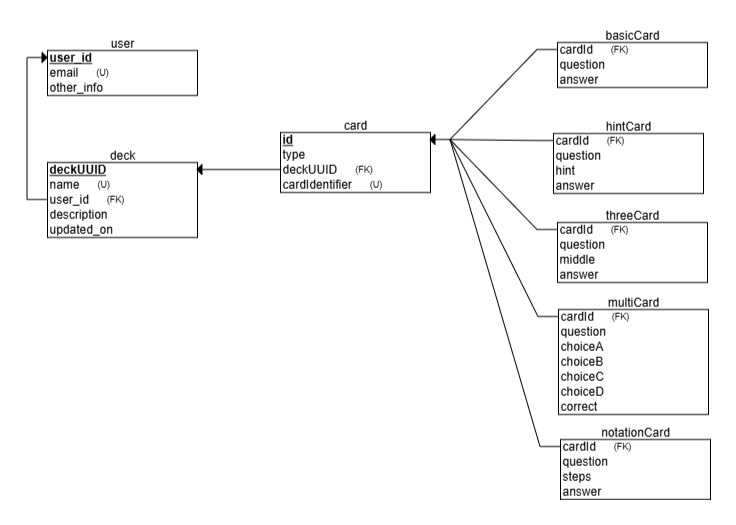
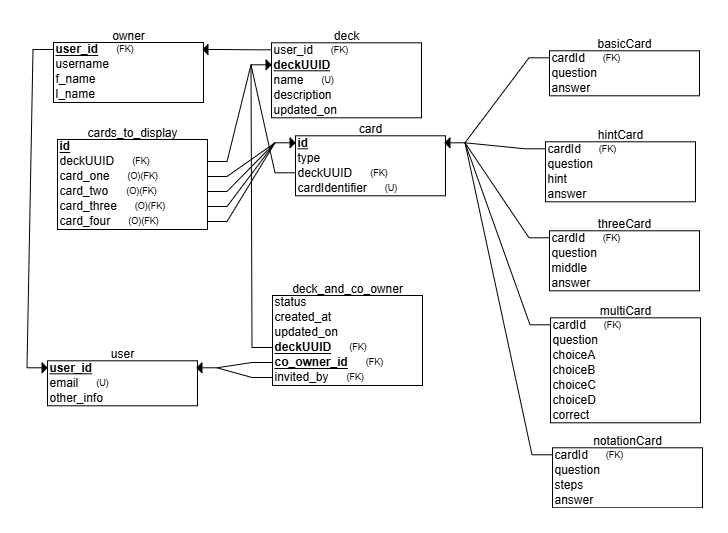
Quick push updating schema images.

diff --git a/app/src/main/java/com/belmontCrest/cardCrafter/navigation/navHosts/MainNavHost.kt b/app/src/main/java/com/belmontCrest/cardCrafter/navigation/navHosts/MainNavHost.kt
@@ -52,7 +52,7 @@ import kotlinx.coroutines.launch
 @SuppressLint("StateFlowValueCalledInComposition")
 @Composable
 fun AppNavHost(
-    navController: NavHostController,
+    mainNavController: NavHostController,
     mainViewModel: MainViewModel,
     editingCardListVM: EditingCardListViewModel,
     navViewModel: NavViewModel,
@@ -77,7 +77,7 @@ fun AppNavHost(
     val generalSettings = GeneralSettings(getUIStyle, preferences)
     val coroutineScope = rememberCoroutineScope()
     CustomNavigationDrawer(
-        navController = navController,
+        mainNavController = mainNavController,
         fields = fields,
         getUIStyle = getUIStyle,
         navViewModel = navViewModel,
@@ -85,7 +85,7 @@ fun AppNavHost(
         supabaseVM = supabaseVM
     ) {
         NavHost(
-            navController = navController,
+            navController = mainNavController,
             startDestination = DeckListDestination.route,
             route = MainNavDestination.route,
             modifier = Modifier
@@ -93,7 +93,7 @@ fun AppNavHost(
             composable(DeckListDestination.route) {
                 BackHandler {
                     // Exit the app when back is pressed on the main screen
-                    (navController.context as? Activity)?.finish()
+                    (mainNavController.context as? Activity)?.finish()
                 }
                 val context = LocalContext.current
                 mainView.DeckList(
@@ -110,11 +110,11 @@ fun AppNavHost(
                         onDeckView = true
                         navViewModel.updateStartingDeckRoute(DeckViewDestination.route)
                         navViewModel.updateRoute(DeckNavDestination.route)
-                        navController.navigate(DeckNavDestination.route)
+                        mainNavController.navigate(DeckNavDestination.route)
                     },
                     onNavigateToAddDeck = {
                         navViewModel.updateRoute(AddDeckDestination.route)
-                        navController.navigate(AddDeckDestination.route)
+                        mainNavController.navigate(AddDeckDestination.route)
                     },
                     onNavigateToSBDeckList = {
                         coroutineScope.launch {
@@ -129,7 +129,7 @@ fun AppNavHost(
                         }
                         navViewModel.updateStartingSBRoute(SupabaseDestination.route)
                         navViewModel.updateRoute(SBNavDestination.route)
-                        navController.navigate(SBNavDestination.route)
+                        mainNavController.navigate(SBNavDestination.route)
                     },
                     goToDueCards = { id ->
                         coroutineScope.launch {
@@ -142,7 +142,7 @@ fun AppNavHost(
                         cardDeckVM.updateWhichDeck(id)
                         navViewModel.updateStartingDeckRoute(ViewDueCardsDestination.route)
                         navViewModel.updateRoute(ViewDueCardsDestination.route)
-                        navController.navigate(DeckNavDestination.route)
+                        mainNavController.navigate(DeckNavDestination.route)
                     }
                 )
             }
@@ -150,7 +150,7 @@ fun AppNavHost(
             composable(SBNavDestination.route) {
                 SupabaseNav(
                     fields, mainViewModel, supabaseVM, getUIStyle,
-                    preferences, navController, navViewModel
+                    preferences, mainNavController, navViewModel
                 )
             }
             composable(
@@ -160,7 +160,7 @@ fun AppNavHost(
                 BackHandler {
                     fields.mainClicked.value = false
                     navViewModel.updateRoute(DeckListDestination.route)
-                    navController.popBackStack(
+                    mainNavController.popBackStack(
                         DeckListDestination.route, inclusive = false
                     )
                 }
@@ -173,7 +173,7 @@ fun AppNavHost(
                 BackHandler {
                     fields.mainClicked.value = false
                     navViewModel.updateRoute(DeckListDestination.route)
-                    navController.popBackStack(
+                    mainNavController.popBackStack(
                         DeckListDestination.route,
                         inclusive = false
                     )
@@ -182,7 +182,7 @@ fun AppNavHost(
                     onNavigate = {
                         fields.mainClicked.value = false
                         navViewModel.updateRoute(DeckListDestination.route)
-                        navController.navigate(DeckListDestination.route)
+                        mainNavController.navigate(DeckListDestination.route)
                     },
                     reviewAmount = preferences.reviewAmount.intValue.toString(),
                     cardAmount = preferences.cardAmount.intValue.toString()
@@ -191,7 +191,7 @@ fun AppNavHost(
             /** Our Deck Nav Controller to call*/
             composable(DeckNavDestination.route) {
                 DeckNavHost(
-                    navController, cardDeckVM, fields, onDeckView,
+                    mainNavController, cardDeckVM, fields, onDeckView,
                     navViewModel, getUIStyle, editingCardListVM,
                 )
             }

diff --git a/app/src/main/java/com/belmontCrest/cardCrafter/navigation/drawer/ActionsIconButton.kt b/app/src/main/java/com/belmontCrest/cardCrafter/navigation/drawer/ActionsIconButton.kt
@@ -19,6 +19,7 @@ import androidx.compose.ui.Alignment
 import androidx.compose.ui.Modifier
 import androidx.compose.ui.unit.dp
 import androidx.lifecycle.compose.collectAsStateWithLifecycle
+import androidx.navigation.NavHostController
 import com.belmontCrest.cardCrafter.controller.cardHandlers.toCard
 import com.belmontCrest.cardCrafter.navigation.destinations.AddCardDestination
 import com.belmontCrest.cardCrafter.navigation.destinations.DeckNavDestination
@@ -29,8 +30,10 @@ import com.belmontCrest.cardCrafter.navigation.destinations.ViewAllCardsDestinat
 import com.belmontCrest.cardCrafter.navigation.destinations.ViewDueCardsDestination
 import com.belmontCrest.cardCrafter.controller.viewModels.cardViewsModels.CardDeckViewModel
 import com.belmontCrest.cardCrafter.model.uiModels.Fields
+import com.belmontCrest.cardCrafter.navigation.destinations.AddDeckDestination
 import com.belmontCrest.cardCrafter.navigation.destinations.CoOwnerRequestsDestination
 import com.belmontCrest.cardCrafter.navigation.destinations.DeckListDestination
+import com.belmontCrest.cardCrafter.navigation.destinations.EditDeckDestination
 import com.belmontCrest.cardCrafter.navigation.destinations.ExportSBDestination
 import com.belmontCrest.cardCrafter.navigation.destinations.MainNavDestination
 import com.belmontCrest.cardCrafter.navigation.destinations.UserProfileDestination
@@ -53,7 +56,8 @@ fun ActionIconButton(
     cardDeckVM: CardDeckViewModel,
     fields: Fields,
     navViewModel: NavViewModel,
-    supabaseVM: SupabaseViewModel
+    supabaseVM: SupabaseViewModel,
+    mainNavController: NavHostController
 ) {
     val deckNavController by navViewModel.deckNav.collectAsStateWithLifecycle()
     val sbNavController by navViewModel.sbNav.collectAsStateWithLifecycle()
@@ -80,6 +84,20 @@ fun ActionIconButton(
             MainDLRouteContent(getUIStyle, coroutineScope, navViewModel)
         }
 
+        AddDeckDestination.route -> {
+            BackButton(
+                onBackClick = {
+                    fields.mainClicked.value = false
+                    navViewModel.updateRoute(DeckListDestination.route)
+                    mainNavController.navigate(DeckListDestination.route)
+                },
+                modifier = Modifier
+                    .padding(horizontal = 10.dp)
+                    .backButtonModifier(),
+                getUIStyle = getUIStyle
+            )
+        }
+
         DeckNavDestination.route -> {
             wd.deck?.let {
                 DeckRouteContent(fields, navViewModel, it, deckNavController, getUIStyle)
@@ -92,6 +110,21 @@ fun ActionIconButton(
             }
         }
 
+        EditDeckDestination.route -> {
+            BackButton(
+                onBackClick = {
+                    cardDeckVM.updateWhichDeck(0)
+                    fields.inDeckClicked.value = false
+                    navViewModel.updateRoute(DeckViewDestination.route)
+                    deckNavController?.navigate(DeckViewDestination.route)
+                },
+                modifier = Modifier
+                    .padding(horizontal = 10.dp)
+                    .backButtonModifier(),
+                getUIStyle = getUIStyle
+            )
+        }
+
         ViewAllCardsDestination.route -> {
             BackButton(
                 onBackClick = {
@@ -99,10 +132,10 @@ fun ActionIconButton(
                     navViewModel.updateRoute(DeckViewDestination.route)
                     deckNavController?.navigate(DeckViewDestination.route)
                 },
-                getUIStyle = getUIStyle,
                 modifier = Modifier
                     .padding(horizontal = 10.dp)
-                    .backButtonModifier()
+                    .backButtonModifier(),
+                getUIStyle = getUIStyle,
             )
         }
 

diff --git a/app/src/main/java/com/belmontCrest/cardCrafter/views/deckViews/AddDeckView.kt b/app/src/main/java/com/belmontCrest/cardCrafter/views/deckViews/AddDeckView.kt
@@ -34,10 +34,8 @@ import androidx.lifecycle.viewmodel.compose.viewModel
 import com.belmontCrest.cardCrafter.R
 import com.belmontCrest.cardCrafter.model.application.AppViewModelProvider
 import com.belmontCrest.cardCrafter.controller.viewModels.deckViewsModels.AddDeckViewModel
-import com.belmontCrest.cardCrafter.uiFunctions.BackButton
 import com.belmontCrest.cardCrafter.uiFunctions.EditTextField
 import com.belmontCrest.cardCrafter.ui.theme.GetUIStyle
-import com.belmontCrest.cardCrafter.ui.theme.backButtonModifier
 import com.belmontCrest.cardCrafter.ui.theme.scrollableBoxViewModifier
 import com.belmontCrest.cardCrafter.uiFunctions.EditIntField
 
@@ -67,13 +65,6 @@ class AddDeckView(
             modifier = Modifier
                 .scrollableBoxViewModifier(scrollState, getUIStyle.getColorScheme())
         ) {
-            BackButton(
-                onBackClick = {
-                    onNavigate()
-                },
-                modifier = Modifier.backButtonModifier(),
-                getUIStyle = getUIStyle
-            )
             Column(
                 modifier = Modifier
                     .fillMaxWidth()
@@ -85,12 +76,10 @@ class AddDeckView(
                     text = stringResource(R.string.add_deck),
                     fontSize = 35.sp,
                     textAlign = TextAlign.Center,
-                    lineHeight = 100.sp,
+                    lineHeight = 50.sp,
                     color = getUIStyle.titleColor(),
                     fontWeight = FontWeight.Bold,
-                    modifier = Modifier
-                        .padding(top = 20.dp)
-                )
+                    )
                 Row(
                     modifier = Modifier
                         .fillMaxWidth()

diff --git a/app/src/main/java/com/belmontCrest/cardCrafter/views/deckViews/EditDeckView.kt b/app/src/main/java/com/belmontCrest/cardCrafter/views/deckViews/EditDeckView.kt
@@ -42,11 +42,9 @@ import com.belmontCrest.cardCrafter.controller.onClickActions.updateReviewAmount
 import com.belmontCrest.cardCrafter.controller.viewModels.deckViewsModels.EditDeckViewModel
 import com.belmontCrest.cardCrafter.model.uiModels.Fields
 import com.belmontCrest.cardCrafter.localDatabase.tables.Deck
-import com.belmontCrest.cardCrafter.uiFunctions.BackButton
 import com.belmontCrest.cardCrafter.uiFunctions.EditDoubleField
 import com.belmontCrest.cardCrafter.uiFunctions.EditTextField
 import com.belmontCrest.cardCrafter.ui.theme.GetUIStyle
-import com.belmontCrest.cardCrafter.ui.theme.backButtonModifier
 import com.belmontCrest.cardCrafter.ui.theme.scrollableBoxViewModifier
 import com.belmontCrest.cardCrafter.uiFunctions.EditIntField
 import com.belmontCrest.cardCrafter.views.miscFunctions.details.createDeckDetails
@@ -97,13 +95,6 @@ class EditDeckView(
             modifier = Modifier
                 .scrollableBoxViewModifier(scrollState, getUIStyle.getColorScheme())
         ) {
-            BackButton(
-                onBackClick = {
-                    onNavigate()
-                },
-                modifier = Modifier.backButtonModifier(),
-                getUIStyle = getUIStyle
-            )
             Column(
                 modifier = Modifier
                     .padding(top = 20.dp, start = 15.dp, end = 15.dp)

diff --git a/app/src/main/java/com/belmontCrest/cardCrafter/navigation/drawer/CustomNavigationDrawer.kt b/app/src/main/java/com/belmontCrest/cardCrafter/navigation/drawer/CustomNavigationDrawer.kt
@@ -57,7 +57,7 @@ import kotlinx.coroutines.launch
 @Composable
 fun CustomNavigationDrawer(
     modifier: Modifier = Modifier,
-    navController: NavHostController,
+    mainNavController: NavHostController,
     fields: Fields,
     getUIStyle: GetUIStyle,
     navViewModel: NavViewModel,
@@ -70,7 +70,7 @@ fun CustomNavigationDrawer(
 
 
     val modalContent = ModalContent(
-        navController = navController, fields = fields,
+        navController = mainNavController, fields = fields,
         getUIStyle = getUIStyle, navViewModel = navViewModel,
         cardDeckVM = cardDeckVM, supabaseVM = supabaseVM,
         cr = navViewModel.route.collectAsStateWithLifecycle().value,
@@ -169,8 +169,8 @@ fun CustomNavigationDrawer(
                     },
                     actions = {
                         ActionIconButton(
-                            getUIStyle, cardDeckVM,
-                            fields, navViewModel, supabaseVM
+                            getUIStyle, cardDeckVM, fields, navViewModel,
+                            supabaseVM, mainNavController
                         )
                     }
                 )

diff --git a/app/src/main/java/com/belmontCrest/cardCrafter/navigation/drawer/CurrentRouteIconContent.kt b/app/src/main/java/com/belmontCrest/cardCrafter/navigation/drawer/CurrentRouteIconContent.kt
@@ -179,9 +179,7 @@ fun DeckRouteContent(
             if (!fields.inDeckClicked.value) {
                 fields.inDeckClicked.value = true
                 fields.mainClicked.value = false
-                navViewModel.updateRoute(
-                    EditDeckDestination.createRoute(deck.name)
-                )
+                navViewModel.updateRoute(EditDeckDestination.route)
                 deckNavController?.navigate(
                     EditDeckDestination.createRoute(deck.name)
                 )

diff --git a/app/src/main/java/com/belmontCrest/cardCrafter/MainActivity.kt b/app/src/main/java/com/belmontCrest/cardCrafter/MainActivity.kt
@@ -99,7 +99,7 @@ class MainActivity : ComponentActivity() {
                 cuteTheme = preferences.cuteTheme.value
             ) {
                 AppNavHost(
-                    navController = navController,
+                    mainNavController = navController,
                     mainViewModel = mainViewModel,
                     editingCardListVM = editingCardListViewModel,
                     preferences = preferences,

diff --git a/LOG.md b/LOG.md
@@ -86,6 +86,8 @@ with exporting/upserting decks
 - #### Chores:
 - - Modify navigation and view model to support deck UUID passing
 - - Update multiple interfaces to support new ownership check mechanism
+### 5/6/2025 9.37pm
+- Update Schema images, and update back buttons to be on the top bar.
 ## John
 ### 4/8/2025 11:50pm
 - Cute Theme: ADDED for people who like cute stuff
